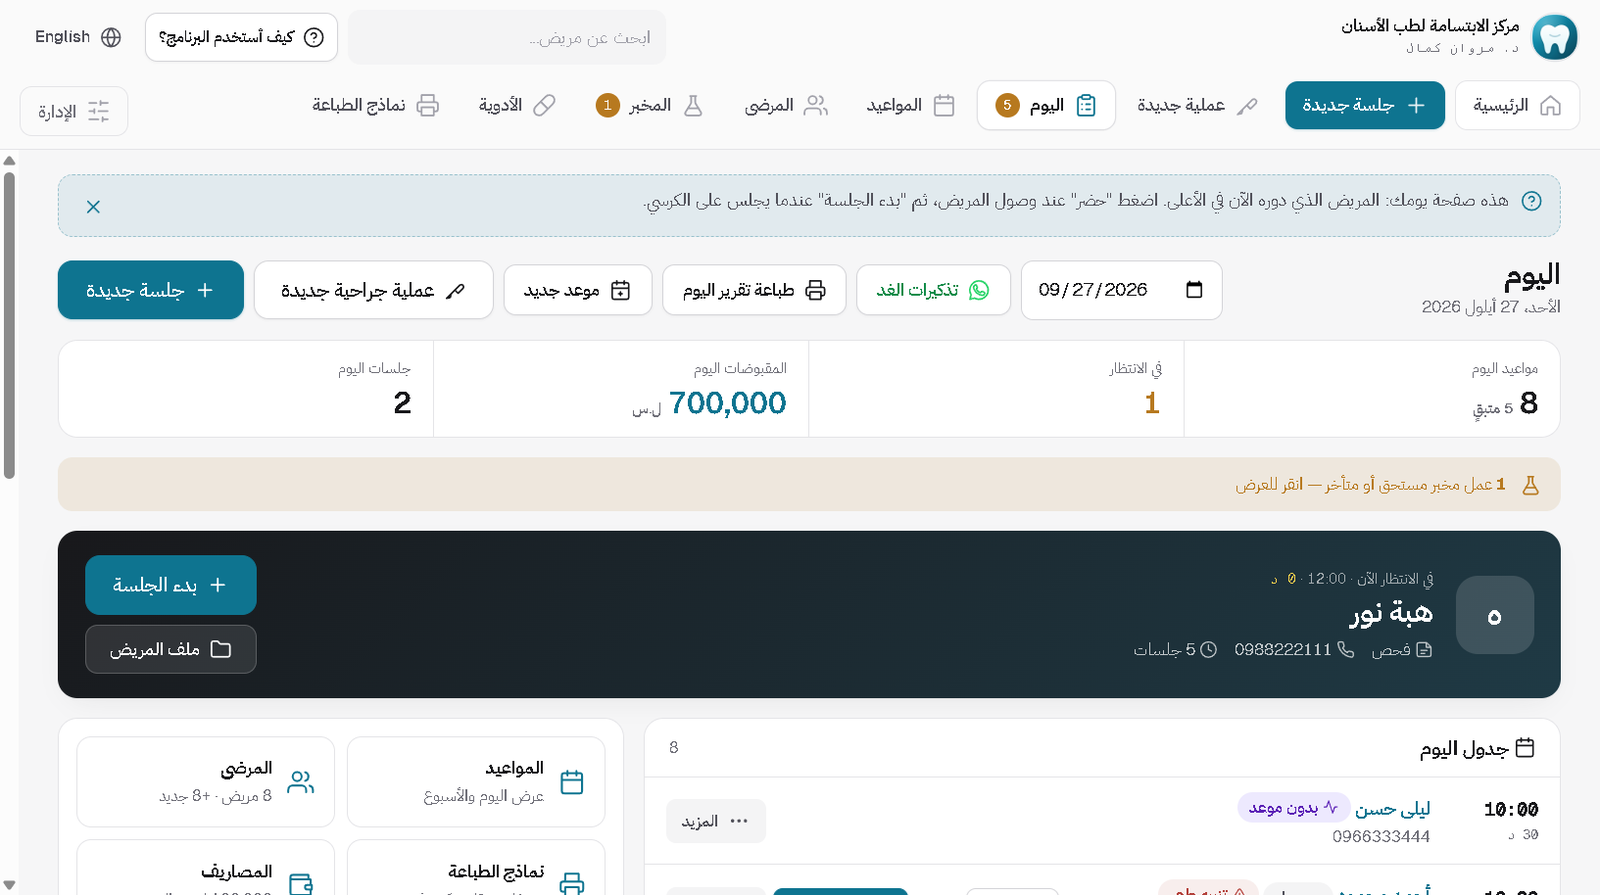
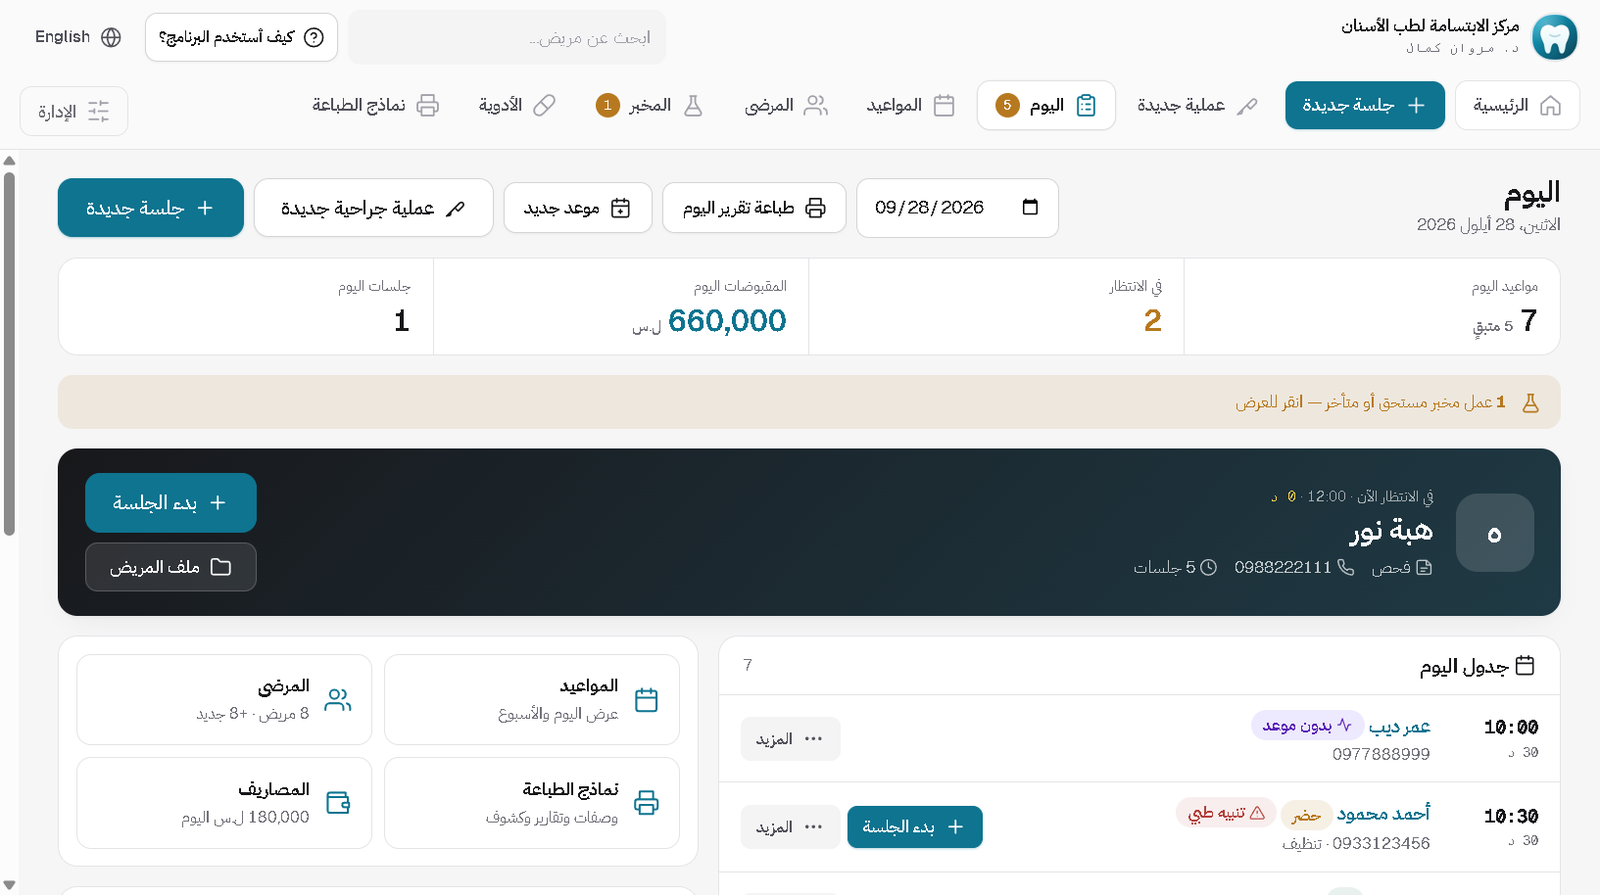
Remove WhatsApp reminder claims and screens from the site
Pregnancy follow-up and the Clinic Desk waiting room no longer mention
WhatsApp reminders; the Clinic Desk appointments shot (reminder panel) is
dropped; the Asnaan today and GynoDesk home/pregnancies shots are recaptured
without the reminder buttons. The build now uses the site's own logo copy.

diff --git a/data/site.js b/data/site.js
@@ -249,7 +249,7 @@ const products = [
     ],
     features: [
       { icon: 'card', t: { ar: 'بطاقة نسائية وبطاقة ولادية', en: 'Gynaecology and obstetric cards' }, b: { ar: 'نفس حقول ورقتك: القصة، الفحص، التشخيص، التدبير. جدول متابعة حملية ومخطط مخاض، وتُطبع على A4 بشعار عيادتك.', en: 'The same fields as your paper: history, examination, diagnosis, management. An antenatal table and partogram, printed to A4 on your letterhead.' } },
-      { icon: 'baby', t: { ar: 'متابعة الحمل', en: 'Pregnancy follow-up' }, b: { ar: 'موعد الولادة وعمر الحمل والثلث تُحسب من آخر طمث، مع تذكير المريضة على واتساب قبل موعد الولادة.', en: 'Due date, gestational age and trimester come from the last period, with a WhatsApp reminder to the patient before her due date.' } },
+      { icon: 'baby', t: { ar: 'متابعة الحمل', en: 'Pregnancy follow-up' }, b: { ar: 'موعد الولادة وعمر الحمل والثلث تُحسب من آخر طمث، وكل الحوامل ومواعيد ولادتهن في قائمة واحدة.', en: 'Due date, gestational age and trimester come from the last period, and every pregnancy sits in one list with its due date.' } },
       { icon: 'activity', t: { ar: 'تحاليل وإيكو ووصفات', en: 'Labs, ultrasound and prescriptions' }, b: { ar: 'اطلب التحليل من الجلسة ويبقى معلّقاً حتى تُدخل النتيجة. ووصفات بترويسة العيادة.', en: 'Order from inside the visit; it stays pending until you enter the result. Prescriptions print on clinic letterhead.' } },
       { icon: 'wallet', t: { ar: 'عمليات ودفعات', en: 'Surgery and payments' }, b: { ar: 'أتعاب كل عملية وحصتك منها. والسكرتيرة ترى من بانتظار الدفع وتقبض من شاشتها.', en: 'The fee and your share for each operation. Reception sees who is waiting to pay and takes payment from their own screen.' } },
       { icon: 'folderOpen', t: { ar: 'أرشيف البطاقات الورقية', en: 'Your old paper cards, archived' }, b: { ar: 'صوّر بطاقاتك القديمة وجه وظهر بالتابلت، فتصبح في ملف المريضة وتجدها برقم البطاقة. مصمّم لعشرات الآلاف.', en: 'Photograph your old cards front and back with the tablet; they land in the patient file and are found by card number. Built for tens of thousands.' } },
@@ -273,14 +273,13 @@ const products = [
       { f: 'orders', c: { ar: 'طلبات التحاليل والأشعة والوصفات', en: 'Lab and imaging requests and prescriptions' } },
       { f: 'patient', c: { ar: 'ملف المريض مع تنبيه الحساسية والأمراض المزمنة', en: 'The patient file with its allergy and chronic-condition alert' } },
       { f: 'visit', c: { ar: 'الزيارة مع العلامات الحيوية', en: 'A visit with its vital signs' } },
-      { f: 'appointments', c: { ar: 'المواعيد وتذكير واتساب', en: 'Appointments and WhatsApp reminders' } },
     ],
     features: [
       { icon: 'stethoscope', t: { ar: 'مُعدّ لاختصاصك', en: 'Set up for your specialty' }, b: { ar: 'اختر اختصاصك فيملأ البرنامج الخدمات والأدوية والتحاليل والعلامات الحيوية المناسبة له، وتعدّلها كما تريد.', en: 'Pick your specialty and it fills in the matching services, drugs, lab tests and vital signs, which you can then edit.' } },
       { icon: 'pill', t: { ar: 'وصفات تنبّهك للحساسية', en: 'Prescriptions that check allergies' }, b: { ar: 'اكتب الوصفة من قائمة أدويتك بجرعاتها، ويحذّرك البرنامج إن تعارض دواء مع حساسية مسجّلة للمريض.', en: 'Write prescriptions from your drug list with doses, and it warns you when a drug clashes with an allergy on file.' } },
       { icon: 'clipboard', t: { ar: 'طلبات تحاليل وأشعة', en: 'Lab and imaging requests' }, b: { ar: 'اطلب التحليل أو الصورة من الزيارة واطبع الطلب، وتابع النتائج المعلّقة حتى تصل.', en: 'Order a test or scan from the visit, print the request, and track pending results until they arrive.' } },
       { icon: 'activity', t: { ar: 'علامات حيوية وتنبيهات', en: 'Vital signs and alerts' }, b: { ar: 'الضغط والنبض والحرارة والوزن في كل زيارة، وشريط أحمر أعلى الملف للحساسية والأمراض المزمنة.', en: 'Blood pressure, pulse, temperature and weight on every visit, and a red strip atop the file for allergies and chronic conditions.' } },
-      { icon: 'users', t: { ar: 'غرفة انتظار ومواعيد', en: 'Waiting room and appointments' }, b: { ar: 'من وصل ومن عند الطبيب ومن انتهى، ومواعيد متكررة مع تذكير على واتساب برسالة جاهزة.', en: 'Who arrived, who is with the doctor, who is done, plus recurring appointments with a ready WhatsApp reminder.' } },
+      { icon: 'users', t: { ar: 'غرفة انتظار ومواعيد', en: 'Waiting room and appointments' }, b: { ar: 'من وصل ومن عند الطبيب ومن انتهى، ومواعيد متكررة.', en: 'Who arrived, who is with the doctor, who is done, plus recurring appointments.' } },
       { icon: 'printer', t: { ar: 'طباعة بمعاينة قبلها', en: 'Printing with a preview first' }, b: { ar: 'كل ورقة تُعاين قبل طباعتها، بترويسة عيادتك وخط وحجم تختاره. ومستودع أدوية اختياري إن كانت عيادتك تصرف.', en: 'Every sheet is previewed before it prints, on your letterhead in the font and size you choose. Plus an optional medicine store if you dispense.' } },
     ],
     extraReq: { ar: ['يمكن ربط جهاز الاستقبال وجهاز الطبيب على شبكة العيادة'], en: ['Reception and doctor computers can be linked over the clinic network'] },

diff --git a/docs/clinic-desk.html b/docs/clinic-desk.html
@@ -63,9 +63,7 @@
     <figure><img src="assets/shots/clinic-desk/ar-patient.png" width="1583" height="974" alt="كلينك ديسك - ملف المريض مع تنبيه الحساسية والأمراض المزمنة" loading="lazy">
       <figcaption>ملف المريض مع تنبيه الحساسية والأمراض المزمنة</figcaption></figure>
     <figure><img src="assets/shots/clinic-desk/ar-visit.png" width="1583" height="974" alt="كلينك ديسك - الزيارة مع العلامات الحيوية" loading="lazy">
-      <figcaption>الزيارة مع العلامات الحيوية</figcaption></figure>
-    <figure><img src="assets/shots/clinic-desk/ar-appointments.png" width="1583" height="974" alt="كلينك ديسك - المواعيد وتذكير واتساب" loading="lazy">
-      <figcaption>المواعيد وتذكير واتساب</figcaption></figure></div></div>
+      <figcaption>الزيارة مع العلامات الحيوية</figcaption></figure></div></div>
   </section>
 
   <section><div class="wrap">
@@ -75,7 +73,7 @@
       <div class="feat"><svg class="" viewBox="0 0 24 24" fill="none" stroke="currentColor" stroke-width="1.75" stroke-linecap="round" stroke-linejoin="round" aria-hidden="true"><path d="m10.5 20.5 10-10a4.95 4.95 0 1 0-7-7l-10 10a4.95 4.95 0 1 0 7 7zM8.5 8.5l7 7"/></svg><div><h3>وصفات تنبّهك للحساسية</h3><p>اكتب الوصفة من قائمة أدويتك بجرعاتها، ويحذّرك البرنامج إن تعارض دواء مع حساسية مسجّلة للمريض.</p></div></div>
       <div class="feat"><svg class="" viewBox="0 0 24 24" fill="none" stroke="currentColor" stroke-width="1.75" stroke-linecap="round" stroke-linejoin="round" aria-hidden="true"><path d="M9 2h6a1 1 0 0 1 1 1v2a1 1 0 0 1-1 1H9a1 1 0 0 1-1-1V3a1 1 0 0 1 1-1zM16 4h2a2 2 0 0 1 2 2v14a2 2 0 0 1-2 2H6a2 2 0 0 1-2-2V6a2 2 0 0 1 2-2h2M12 11h4M12 16h4M8 11h.01M8 16h.01"/></svg><div><h3>طلبات تحاليل وأشعة</h3><p>اطلب التحليل أو الصورة من الزيارة واطبع الطلب، وتابع النتائج المعلّقة حتى تصل.</p></div></div>
       <div class="feat"><svg class="" viewBox="0 0 24 24" fill="none" stroke="currentColor" stroke-width="1.75" stroke-linecap="round" stroke-linejoin="round" aria-hidden="true"><path d="M22 12h-4l-3 9L9 3l-3 9H2"/></svg><div><h3>علامات حيوية وتنبيهات</h3><p>الضغط والنبض والحرارة والوزن في كل زيارة، وشريط أحمر أعلى الملف للحساسية والأمراض المزمنة.</p></div></div>
-      <div class="feat"><svg class="" viewBox="0 0 24 24" fill="none" stroke="currentColor" stroke-width="1.75" stroke-linecap="round" stroke-linejoin="round" aria-hidden="true"><path d="M17 21v-2a4 4 0 0 0-4-4H5a4 4 0 0 0-4 4v2M13 7a4 4 0 1 1-8 0 4 4 0 0 1 8 0zM23 21v-2a4 4 0 0 0-3-3.87M16 3.13a4 4 0 0 1 0 7.75"/></svg><div><h3>غرفة انتظار ومواعيد</h3><p>من وصل ومن عند الطبيب ومن انتهى، ومواعيد متكررة مع تذكير على واتساب برسالة جاهزة.</p></div></div>
+      <div class="feat"><svg class="" viewBox="0 0 24 24" fill="none" stroke="currentColor" stroke-width="1.75" stroke-linecap="round" stroke-linejoin="round" aria-hidden="true"><path d="M17 21v-2a4 4 0 0 0-4-4H5a4 4 0 0 0-4 4v2M13 7a4 4 0 1 1-8 0 4 4 0 0 1 8 0zM23 21v-2a4 4 0 0 0-3-3.87M16 3.13a4 4 0 0 1 0 7.75"/></svg><div><h3>غرفة انتظار ومواعيد</h3><p>من وصل ومن عند الطبيب ومن انتهى، ومواعيد متكررة.</p></div></div>
       <div class="feat"><svg class="" viewBox="0 0 24 24" fill="none" stroke="currentColor" stroke-width="1.75" stroke-linecap="round" stroke-linejoin="round" aria-hidden="true"><path d="M6 9V2h12v7M6 18H4a2 2 0 0 1-2-2v-5a2 2 0 0 1 2-2h16a2 2 0 0 1 2 2v5a2 2 0 0 1-2 2h-2M6 14h12v8H6z"/></svg><div><h3>طباعة بمعاينة قبلها</h3><p>كل ورقة تُعاين قبل طباعتها، بترويسة عيادتك وخط وحجم تختاره. ومستودع أدوية اختياري إن كانت عيادتك تصرف.</p></div></div></div>
   </div></section>
 

diff --git a/docs/en/clinic-desk.html b/docs/en/clinic-desk.html
@@ -63,9 +63,7 @@
     <figure><img src="../assets/shots/clinic-desk/en-patient.png" width="1583" height="974" alt="Clinic Desk - The patient file with its allergy and chronic-condition alert" loading="lazy">
       <figcaption>The patient file with its allergy and chronic-condition alert</figcaption></figure>
     <figure><img src="../assets/shots/clinic-desk/ar-visit.png" width="1583" height="974" alt="Clinic Desk - A visit with its vital signs" loading="lazy">
-      <figcaption>A visit with its vital signs</figcaption></figure>
-    <figure><img src="../assets/shots/clinic-desk/en-appointments.png" width="1583" height="974" alt="Clinic Desk - Appointments and WhatsApp reminders" loading="lazy">
-      <figcaption>Appointments and WhatsApp reminders</figcaption></figure></div></div>
+      <figcaption>A visit with its vital signs</figcaption></figure></div></div>
   </section>
 
   <section><div class="wrap">
@@ -75,7 +73,7 @@
       <div class="feat"><svg class="" viewBox="0 0 24 24" fill="none" stroke="currentColor" stroke-width="1.75" stroke-linecap="round" stroke-linejoin="round" aria-hidden="true"><path d="m10.5 20.5 10-10a4.95 4.95 0 1 0-7-7l-10 10a4.95 4.95 0 1 0 7 7zM8.5 8.5l7 7"/></svg><div><h3>Prescriptions that check allergies</h3><p>Write prescriptions from your drug list with doses, and it warns you when a drug clashes with an allergy on file.</p></div></div>
       <div class="feat"><svg class="" viewBox="0 0 24 24" fill="none" stroke="currentColor" stroke-width="1.75" stroke-linecap="round" stroke-linejoin="round" aria-hidden="true"><path d="M9 2h6a1 1 0 0 1 1 1v2a1 1 0 0 1-1 1H9a1 1 0 0 1-1-1V3a1 1 0 0 1 1-1zM16 4h2a2 2 0 0 1 2 2v14a2 2 0 0 1-2 2H6a2 2 0 0 1-2-2V6a2 2 0 0 1 2-2h2M12 11h4M12 16h4M8 11h.01M8 16h.01"/></svg><div><h3>Lab and imaging requests</h3><p>Order a test or scan from the visit, print the request, and track pending results until they arrive.</p></div></div>
       <div class="feat"><svg class="" viewBox="0 0 24 24" fill="none" stroke="currentColor" stroke-width="1.75" stroke-linecap="round" stroke-linejoin="round" aria-hidden="true"><path d="M22 12h-4l-3 9L9 3l-3 9H2"/></svg><div><h3>Vital signs and alerts</h3><p>Blood pressure, pulse, temperature and weight on every visit, and a red strip atop the file for allergies and chronic conditions.</p></div></div>
-      <div class="feat"><svg class="" viewBox="0 0 24 24" fill="none" stroke="currentColor" stroke-width="1.75" stroke-linecap="round" stroke-linejoin="round" aria-hidden="true"><path d="M17 21v-2a4 4 0 0 0-4-4H5a4 4 0 0 0-4 4v2M13 7a4 4 0 1 1-8 0 4 4 0 0 1 8 0zM23 21v-2a4 4 0 0 0-3-3.87M16 3.13a4 4 0 0 1 0 7.75"/></svg><div><h3>Waiting room and appointments</h3><p>Who arrived, who is with the doctor, who is done, plus recurring appointments with a ready WhatsApp reminder.</p></div></div>
+      <div class="feat"><svg class="" viewBox="0 0 24 24" fill="none" stroke="currentColor" stroke-width="1.75" stroke-linecap="round" stroke-linejoin="round" aria-hidden="true"><path d="M17 21v-2a4 4 0 0 0-4-4H5a4 4 0 0 0-4 4v2M13 7a4 4 0 1 1-8 0 4 4 0 0 1 8 0zM23 21v-2a4 4 0 0 0-3-3.87M16 3.13a4 4 0 0 1 0 7.75"/></svg><div><h3>Waiting room and appointments</h3><p>Who arrived, who is with the doctor, who is done, plus recurring appointments.</p></div></div>
       <div class="feat"><svg class="" viewBox="0 0 24 24" fill="none" stroke="currentColor" stroke-width="1.75" stroke-linecap="round" stroke-linejoin="round" aria-hidden="true"><path d="M6 9V2h12v7M6 18H4a2 2 0 0 1-2-2v-5a2 2 0 0 1 2-2h16a2 2 0 0 1 2 2v5a2 2 0 0 1-2 2h-2M6 14h12v8H6z"/></svg><div><h3>Printing with a preview first</h3><p>Every sheet is previewed before it prints, on your letterhead in the font and size you choose. Plus an optional medicine store if you dispense.</p></div></div></div>
   </div></section>
 

diff --git a/docs/gynodesk.html b/docs/gynodesk.html
@@ -75,7 +75,7 @@
     <div class="sec-head"><h2>ما الذي يفعله</h2></div>
     <div class="feats">
       <div class="feat"><svg class="" viewBox="0 0 24 24" fill="none" stroke="currentColor" stroke-width="1.75" stroke-linecap="round" stroke-linejoin="round" aria-hidden="true"><path d="M4 4h16a1 1 0 0 1 1 1v14a1 1 0 0 1-1 1H4a1 1 0 0 1-1-1V5a1 1 0 0 1 1-1zM7 9h10M7 13h10M7 17h6"/></svg><div><h3>بطاقة نسائية وبطاقة ولادية</h3><p>نفس حقول ورقتك: القصة، الفحص، التشخيص، التدبير. جدول متابعة حملية ومخطط مخاض، وتُطبع على A4 بشعار عيادتك.</p></div></div>
-      <div class="feat"><svg class="" viewBox="0 0 24 24" fill="none" stroke="currentColor" stroke-width="1.75" stroke-linecap="round" stroke-linejoin="round" aria-hidden="true"><path d="M9 12h.01M15 12h.01M10 16c.5.3 1.2.5 2 .5s1.5-.2 2-.5M12 3a2 2 0 0 0-2 2c0 .5.2 1 .5 1.3M3.5 12a8.5 8.5 0 1 0 17 0 8.5 8.5 0 1 0-17 0"/></svg><div><h3>متابعة الحمل</h3><p>موعد الولادة وعمر الحمل والثلث تُحسب من آخر طمث، مع تذكير المريضة على واتساب قبل موعد الولادة.</p></div></div>
+      <div class="feat"><svg class="" viewBox="0 0 24 24" fill="none" stroke="currentColor" stroke-width="1.75" stroke-linecap="round" stroke-linejoin="round" aria-hidden="true"><path d="M9 12h.01M15 12h.01M10 16c.5.3 1.2.5 2 .5s1.5-.2 2-.5M12 3a2 2 0 0 0-2 2c0 .5.2 1 .5 1.3M3.5 12a8.5 8.5 0 1 0 17 0 8.5 8.5 0 1 0-17 0"/></svg><div><h3>متابعة الحمل</h3><p>موعد الولادة وعمر الحمل والثلث تُحسب من آخر طمث، وكل الحوامل ومواعيد ولادتهن في قائمة واحدة.</p></div></div>
       <div class="feat"><svg class="" viewBox="0 0 24 24" fill="none" stroke="currentColor" stroke-width="1.75" stroke-linecap="round" stroke-linejoin="round" aria-hidden="true"><path d="M22 12h-4l-3 9L9 3l-3 9H2"/></svg><div><h3>تحاليل وإيكو ووصفات</h3><p>اطلب التحليل من الجلسة ويبقى معلّقاً حتى تُدخل النتيجة. ووصفات بترويسة العيادة.</p></div></div>
       <div class="feat"><svg class="" viewBox="0 0 24 24" fill="none" stroke="currentColor" stroke-width="1.75" stroke-linecap="round" stroke-linejoin="round" aria-hidden="true"><path d="M21 12V7H5a2 2 0 0 1 0-4h14v4M3 5v14a2 2 0 0 0 2 2h16v-5M18 12a2 2 0 0 0 0 4h4v-4Z"/></svg><div><h3>عمليات ودفعات</h3><p>أتعاب كل عملية وحصتك منها. والسكرتيرة ترى من بانتظار الدفع وتقبض من شاشتها.</p></div></div>
       <div class="feat"><svg class="" viewBox="0 0 24 24" fill="none" stroke="currentColor" stroke-width="1.75" stroke-linecap="round" stroke-linejoin="round" aria-hidden="true"><path d="M6 14l1.45-2.9A2 2 0 0 1 9.24 10H20a2 2 0 0 1 1.94 2.5l-1.55 6a2 2 0 0 1-1.94 1.5H4a2 2 0 0 1-2-2V5c0-1.1.9-2 2-2h3.93a2 2 0 0 1 1.66.9l.82 1.2a2 2 0 0 0 1.66.9H18a2 2 0 0 1 2 2v2"/></svg><div><h3>أرشيف البطاقات الورقية</h3><p>صوّر بطاقاتك القديمة وجه وظهر بالتابلت، فتصبح في ملف المريضة وتجدها برقم البطاقة. مصمّم لعشرات الآلاف.</p></div></div>

diff --git a/docs/en/gynodesk.html b/docs/en/gynodesk.html
@@ -75,7 +75,7 @@
     <div class="sec-head"><h2>What it does</h2></div>
     <div class="feats">
       <div class="feat"><svg class="" viewBox="0 0 24 24" fill="none" stroke="currentColor" stroke-width="1.75" stroke-linecap="round" stroke-linejoin="round" aria-hidden="true"><path d="M4 4h16a1 1 0 0 1 1 1v14a1 1 0 0 1-1 1H4a1 1 0 0 1-1-1V5a1 1 0 0 1 1-1zM7 9h10M7 13h10M7 17h6"/></svg><div><h3>Gynaecology and obstetric cards</h3><p>The same fields as your paper: history, examination, diagnosis, management. An antenatal table and partogram, printed to A4 on your letterhead.</p></div></div>
-      <div class="feat"><svg class="" viewBox="0 0 24 24" fill="none" stroke="currentColor" stroke-width="1.75" stroke-linecap="round" stroke-linejoin="round" aria-hidden="true"><path d="M9 12h.01M15 12h.01M10 16c.5.3 1.2.5 2 .5s1.5-.2 2-.5M12 3a2 2 0 0 0-2 2c0 .5.2 1 .5 1.3M3.5 12a8.5 8.5 0 1 0 17 0 8.5 8.5 0 1 0-17 0"/></svg><div><h3>Pregnancy follow-up</h3><p>Due date, gestational age and trimester come from the last period, with a WhatsApp reminder to the patient before her due date.</p></div></div>
+      <div class="feat"><svg class="" viewBox="0 0 24 24" fill="none" stroke="currentColor" stroke-width="1.75" stroke-linecap="round" stroke-linejoin="round" aria-hidden="true"><path d="M9 12h.01M15 12h.01M10 16c.5.3 1.2.5 2 .5s1.5-.2 2-.5M12 3a2 2 0 0 0-2 2c0 .5.2 1 .5 1.3M3.5 12a8.5 8.5 0 1 0 17 0 8.5 8.5 0 1 0-17 0"/></svg><div><h3>Pregnancy follow-up</h3><p>Due date, gestational age and trimester come from the last period, and every pregnancy sits in one list with its due date.</p></div></div>
       <div class="feat"><svg class="" viewBox="0 0 24 24" fill="none" stroke="currentColor" stroke-width="1.75" stroke-linecap="round" stroke-linejoin="round" aria-hidden="true"><path d="M22 12h-4l-3 9L9 3l-3 9H2"/></svg><div><h3>Labs, ultrasound and prescriptions</h3><p>Order from inside the visit; it stays pending until you enter the result. Prescriptions print on clinic letterhead.</p></div></div>
       <div class="feat"><svg class="" viewBox="0 0 24 24" fill="none" stroke="currentColor" stroke-width="1.75" stroke-linecap="round" stroke-linejoin="round" aria-hidden="true"><path d="M21 12V7H5a2 2 0 0 1 0-4h14v4M3 5v14a2 2 0 0 0 2 2h16v-5M18 12a2 2 0 0 0 0 4h4v-4Z"/></svg><div><h3>Surgery and payments</h3><p>The fee and your share for each operation. Reception sees who is waiting to pay and takes payment from their own screen.</p></div></div>
       <div class="feat"><svg class="" viewBox="0 0 24 24" fill="none" stroke="currentColor" stroke-width="1.75" stroke-linecap="round" stroke-linejoin="round" aria-hidden="true"><path d="M6 14l1.45-2.9A2 2 0 0 1 9.24 10H20a2 2 0 0 1 1.94 2.5l-1.55 6a2 2 0 0 1-1.94 1.5H4a2 2 0 0 1-2-2V5c0-1.1.9-2 2-2h3.93a2 2 0 0 1 1.66.9l.82 1.2a2 2 0 0 0 1.66.9H18a2 2 0 0 1 2 2v2"/></svg><div><h3>Your old paper cards, archived</h3><p>Photograph your old cards front and back with the tablet; they land in the patient file and are found by card number. Built for tens of thousands.</p></div></div>

diff --git a/build.js b/build.js
@@ -311,7 +311,7 @@ function copyAssets(built) {
   for (const f of ['PlexArabic-400.woff2', 'PlexArabic-500.woff2', 'PlexArabic-600.woff2', 'PlexArabic-700.woff2']) {
     copy(path.join(fontSrc, f), path.join(A, 'fonts', f));
   }
-  copy(path.join(HOME, 'marketing-kit', 'assets', 'logo.png'), path.join(A, 'logo.png'));
+  copy(path.join(ROOT, 'static', 'logo.png'), path.join(A, 'logo.png')); // the site keeps its own copy of the MedDesk mark
   for (const b of built) {
     const small = path.join(ROOT, 'static', 'logos', `${b.p.slug}.png`); // 192px copies from tools/make-logos.js
     copy(fs.existsSync(small) ? small : path.join(HOME, b.p.logo), path.join(A, 'logos', `${b.p.slug}.png`));
